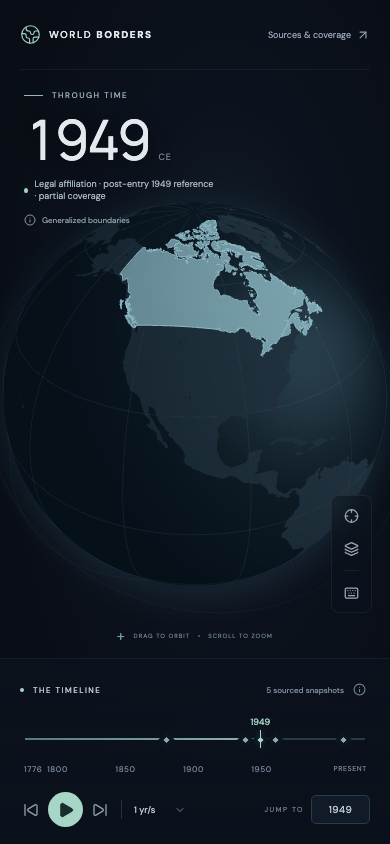
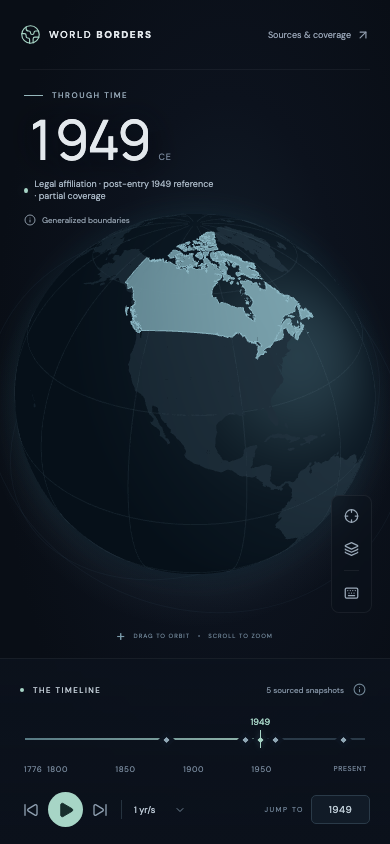
fix: preserve ring roles and disclose the accepted simplification

Changed region(s): [[0.3077, 0.2464, 0.8308, 0.4005], [0.6462, 0.4005, 0.7077, 0.4313]]

diff --git a/research/evidence/temporal-slice/README.md b/research/evidence/temporal-slice/README.md
@@ -4,6 +4,6 @@ The matched `before-1949.png` / `after-1949.png` captures use the same applicati
 
 `retained-1938.png` shows the baseline ownership state in the new viewer. All original four snapshot GeoJSON files remain byte-identical. The desktop source panel and 390 × 844 mobile captures show the actual ready 1949 state, coverage/precision, and curator details.
 
-The release checks cover 50 deterministic cases, 11 Chromium browser cases, cached byte-for-byte rebuild, and the 660,000-byte compressed JavaScript budget. CI and deployed revision evidence are linked from the delivery PR. Source inspection and curator scope are recorded in `research/HISTORICAL_SLICE_RESEARCH.md`, the Jev ledgers, and `data/curation/canada-1949.json`.
+The release checks cover 51 deterministic cases, 11 Chromium browser cases, cached byte-for-byte rebuild, and the 660,000-byte compressed JavaScript budget. CI and deployed revision evidence are linked from the delivery PR. Source inspection and curator scope are recorded in `research/HISTORICAL_SLICE_RESEARCH.md`, the Jev ledgers, and `data/curation/canada-1949.json`.
 
 External review found a real simplification-induced connection between six pairs of source components. The importer falls back from 0.03 to the accepted 0.01-degree detail and requires canonical self-union stability. The revised 1949 output retains 1,044 components; source and ownership limitations remain unchanged. These captures use the revised output.
